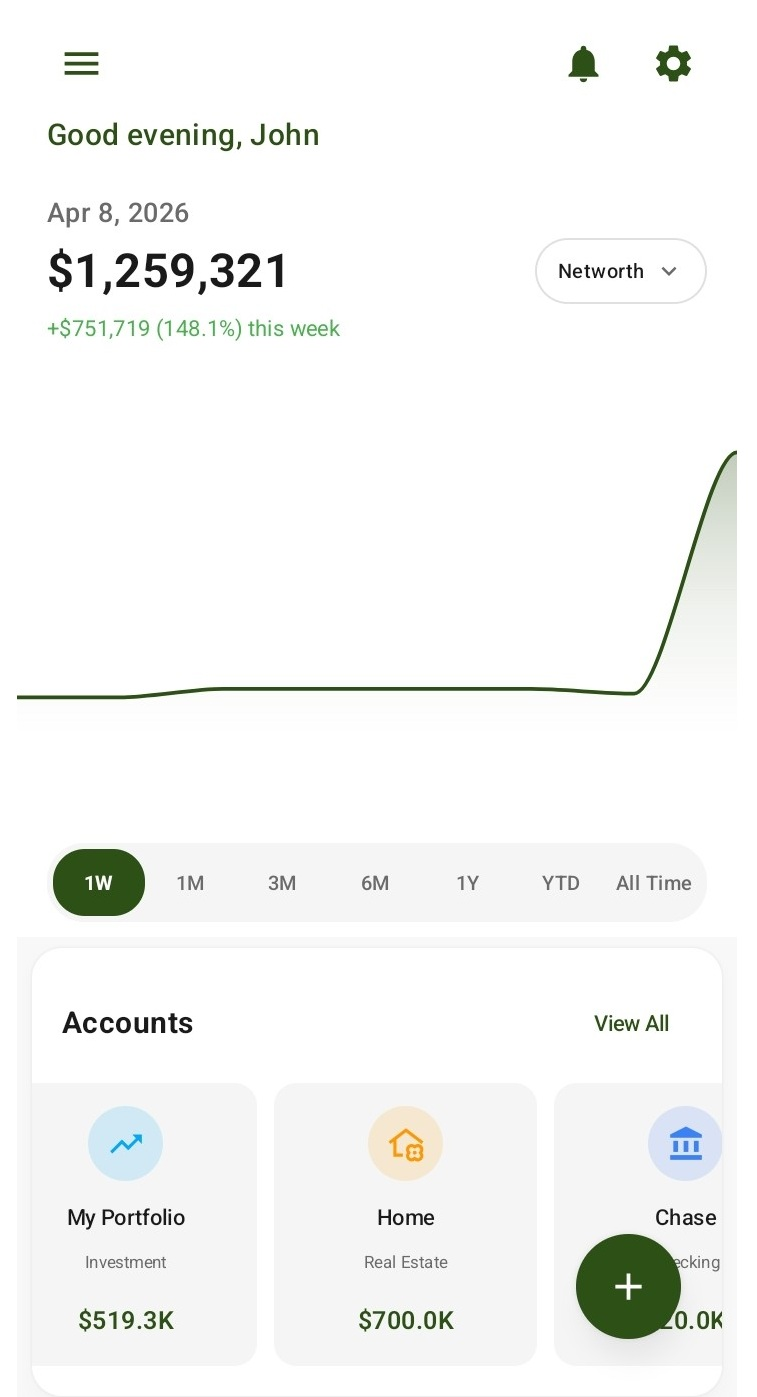
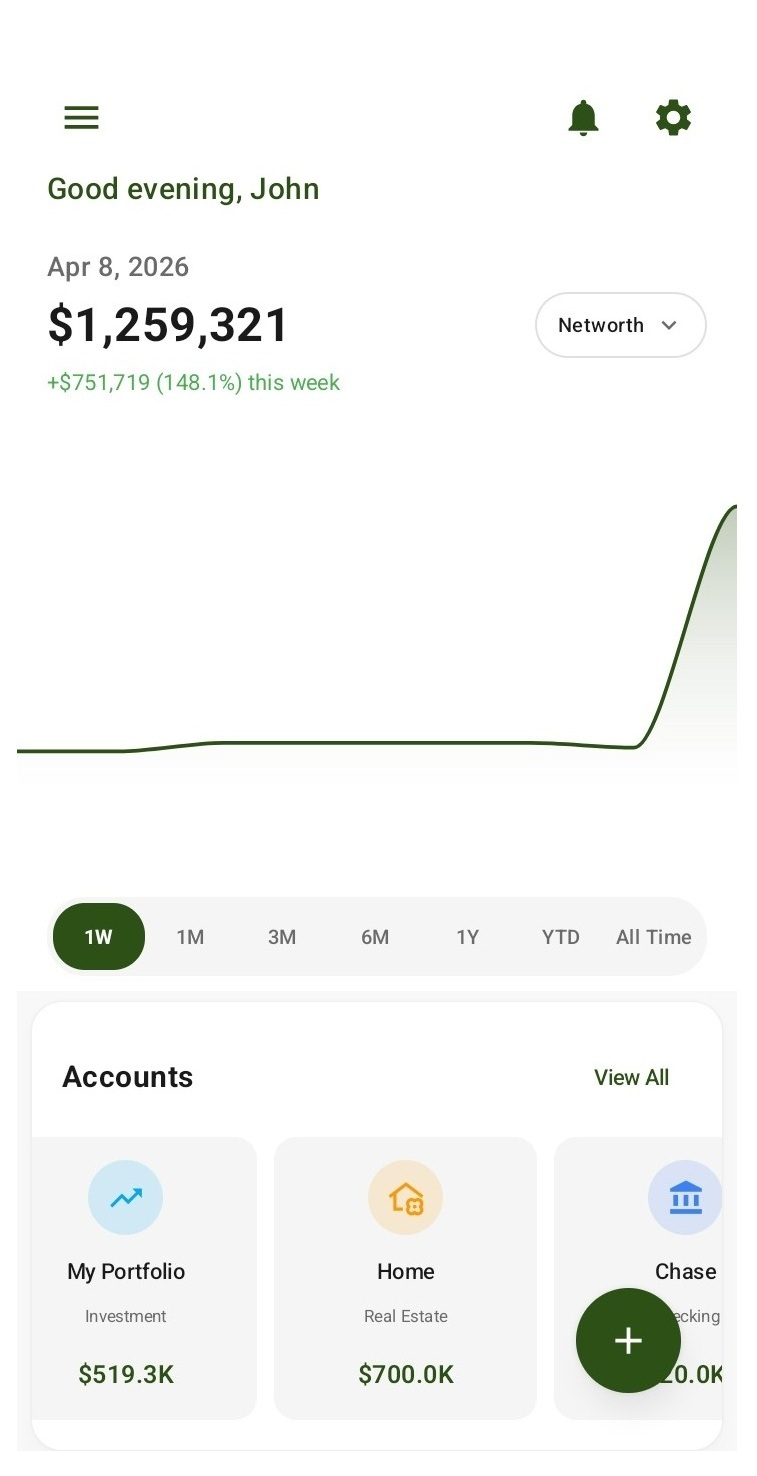
Revert phone to 215px + updated 01.jpeg (taller crop, ratio 0.513)

diff --git a/css/style.css b/css/style.css
@@ -362,13 +362,13 @@ body {
 
 .phone-wrapper {
   position: relative;
-  width: 246px;
+  width: 215px;
   margin: 0 auto;
   animation: float 4s ease-in-out infinite;
 }
 
 @media (max-width: 768px) {
-  .phone-wrapper { width: 210px; }
+  .phone-wrapper { width: 185px; }
 }
 
 .phone-glow {
